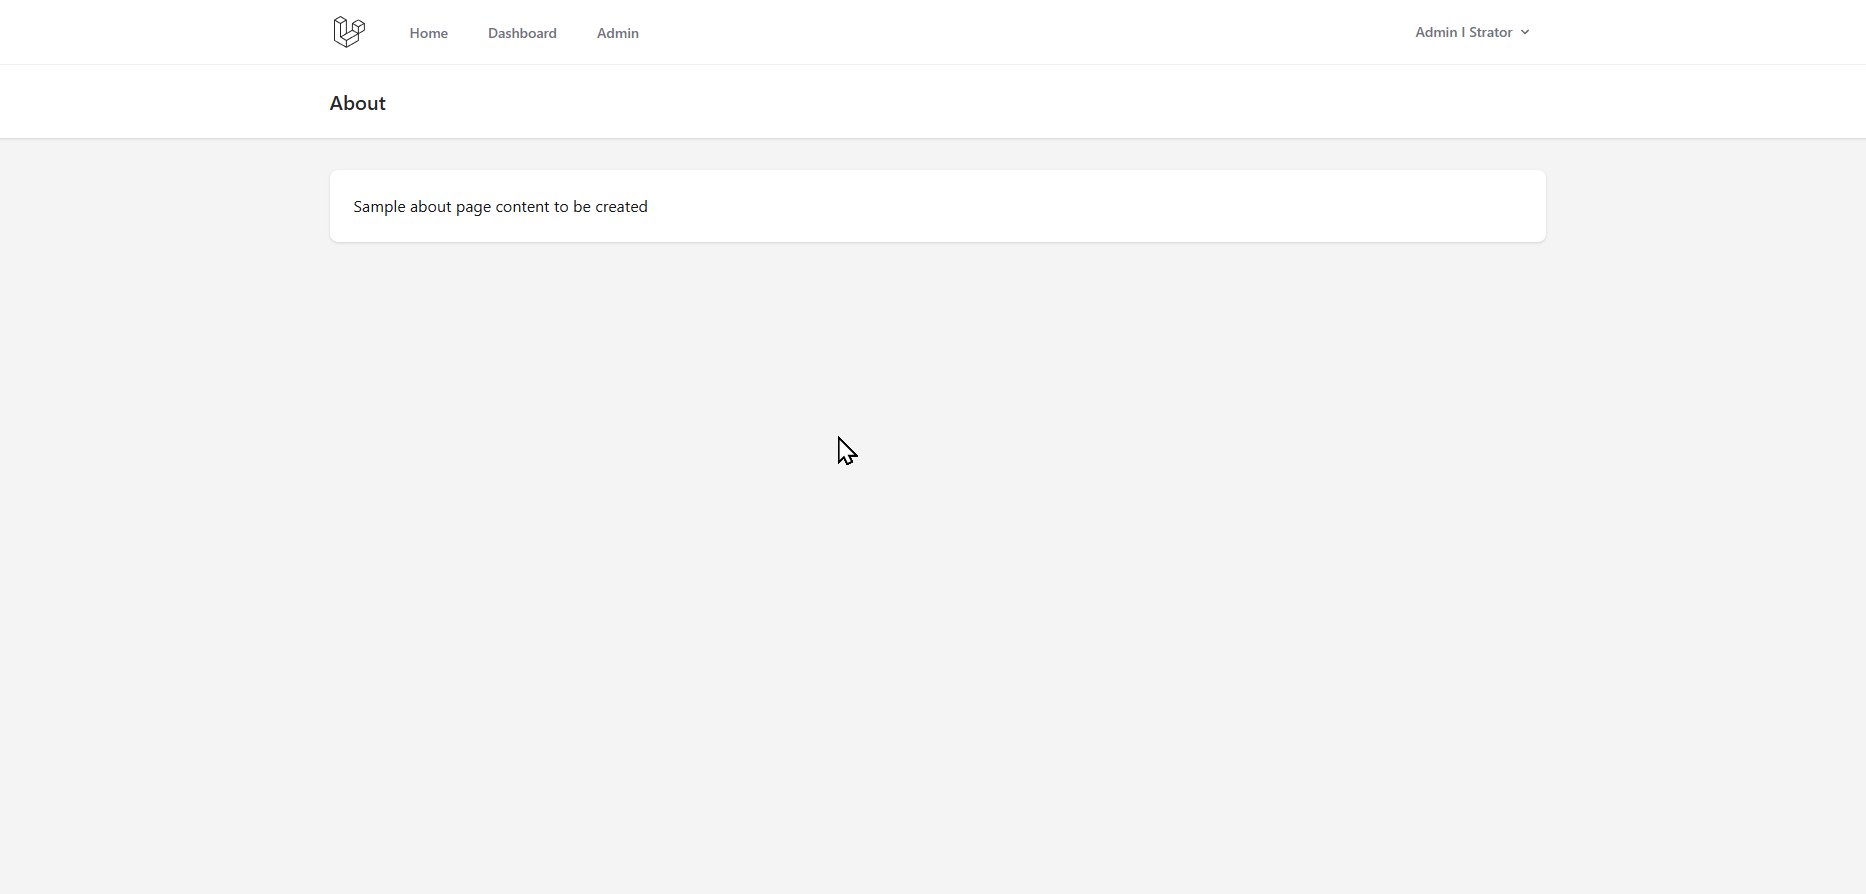
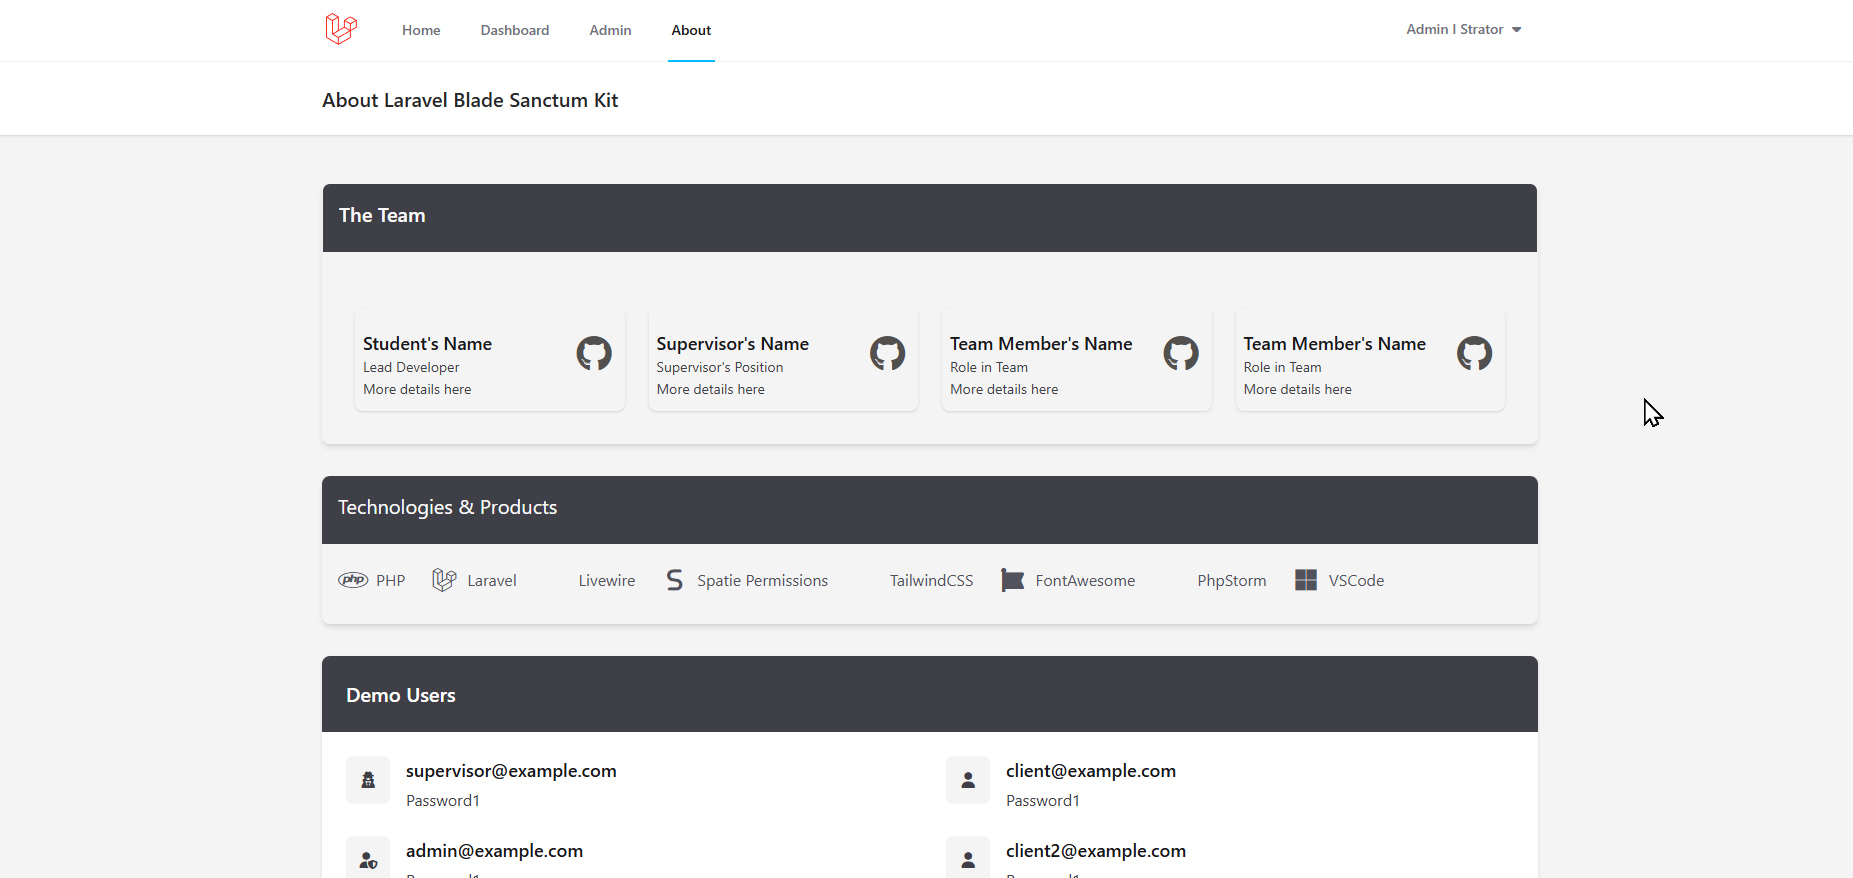
docs(readme): Update about and add privacy images

diff --git a/ReadMe.md b/ReadMe.md
@@ -66,7 +66,7 @@ vendor such as a payment system.
 
 One-click install a new application using this starter kit through [Laravel Herd](https://herd.laravel.com):
 
-[![Install_with_Laravel_Herd][LaravelHerdCreate.com]][LaravelHerdCreate-url]
+![Install_with_Laravel_Herd][LaravelHerdCreate.com]][LaravelHerdCreate-url]
 
 ### Via the Laravel Installer
 
@@ -101,6 +101,10 @@ Below are sample pages from the kit.
 ### About Page
 
 ![Product Screenshot About Page][-Product-ScreenShot-4]
+
+### Privacy Policy Page
+
+![Product Screenshot Privacy Policy Page][-Product-ScreenShot-5]
 
 ## Credits
 
@@ -299,6 +303,8 @@ The Laravel "Blade with Sanctum" Starter Kit is open-sourced software licensed u
 [-Product-Screenshot-3]: public/kit-docs/screenshot-admin.png
 
 [-Product-Screenshot-4]: public/kit-docs/screenshot-about.png
+
+[-Product-Screenshot-5]: public/kit-docs/screenshot-privacy.png
 
 <!-- Product, Package, Framework, et al -->
 
